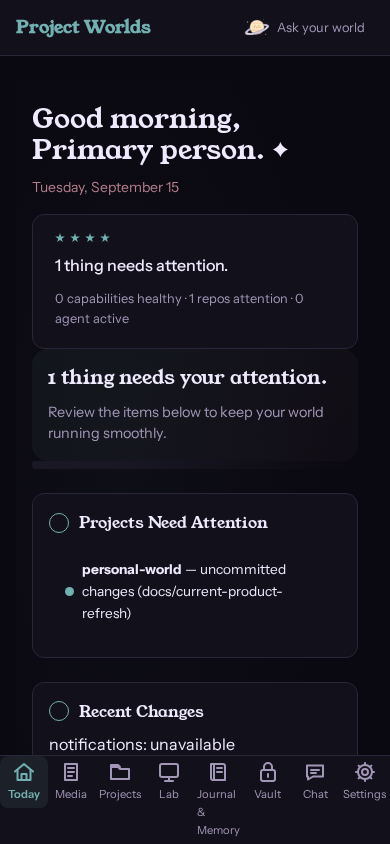
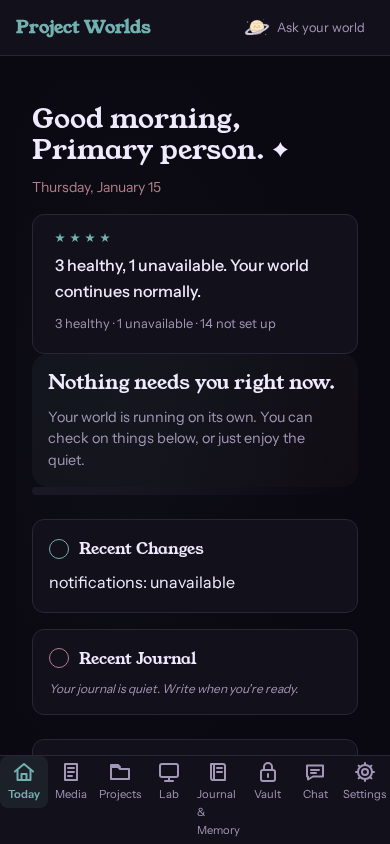
test(e2e): make documentation screenshots deterministic and sanitized
docs-screenshots.spec.ts claims "deterministic, sanitized, repeatable",
but it used the shared e2e server whose source-control fixture IS this
repo — so every run baked the live estate state (dirty branches,
observation ages) and local branch names into tracked PNGs, and the tree
was dirty after any e2e run.

- freeze the clock (page.clock.setFixedTime) so date-derived copy is stable
- answer /api/source-control/status and /api/projects/status with the
  honest not_configured / empty envelopes: a real product state, no local
  detail, no observation ages
- drop the unused `expect` import (oxlint 0 warnings)

Two consecutive runs now produce byte-identical PNGs; a full e2e run
leaves the tracked tree clean. Refreshed the five affected images.

diff --git a/frontend/e2e/docs-screenshots.spec.ts b/frontend/e2e/docs-screenshots.spec.ts
@@ -6,7 +6,7 @@
  *
  * Run: cd frontend && npx playwright test e2e/docs-screenshots.spec.ts
  */
-import { test, expect } from "playwright/test";
+import { test } from "playwright/test";
 import { login, bootWait } from "./helpers";
 import { mkdirSync } from "node:fs";
 import { resolve } from "node:path";
@@ -17,6 +17,34 @@ const MOBILE = { width: 390, height: 844 };
 
 test.beforeAll(() => {
   mkdirSync(SCREENSHOT_DIR, { recursive: true });
+});
+
+// Freeze the clock so date-derived copy (greeting, weekday, relative
+// "observed N minutes ago" ages, journal day labels) renders identically
+// on every run. These PNGs are tracked files; without a fixed clock they
+// churned on every run/day and left the working tree dirty.
+//
+// The shared e2e server points source-control at the repo itself so the
+// projects e2e exercises real git. That makes the estate state (dirty
+// branches, observation ages) leak into these screenshots and change
+// with every commit — violating this file's "deterministic, sanitized,
+// repeatable" contract, and printing local branch names into a public
+// README. Answer the two estate endpoints with the honest not_configured
+// / empty envelopes instead: a real product state, with no local detail.
+const NOT_CONFIGURED = {
+  ok: false,
+  status: "not_configured",
+  warnings: ["no source_control search paths configured"],
+};
+
+test.beforeEach(async ({ page }) => {
+  await page.clock.setFixedTime(new Date("2026-01-15T15:00:00Z"));
+  await page.route("**/api/source-control/status*", (route) =>
+    route.fulfill({ json: NOT_CONFIGURED })
+  );
+  await page.route("**/api/projects/status*", (route) =>
+    route.fulfill({ json: { ok: true, data: { projects: [] } } })
+  );
 });
 
 async function waitForContent(page: import("playwright/test").Page) {
